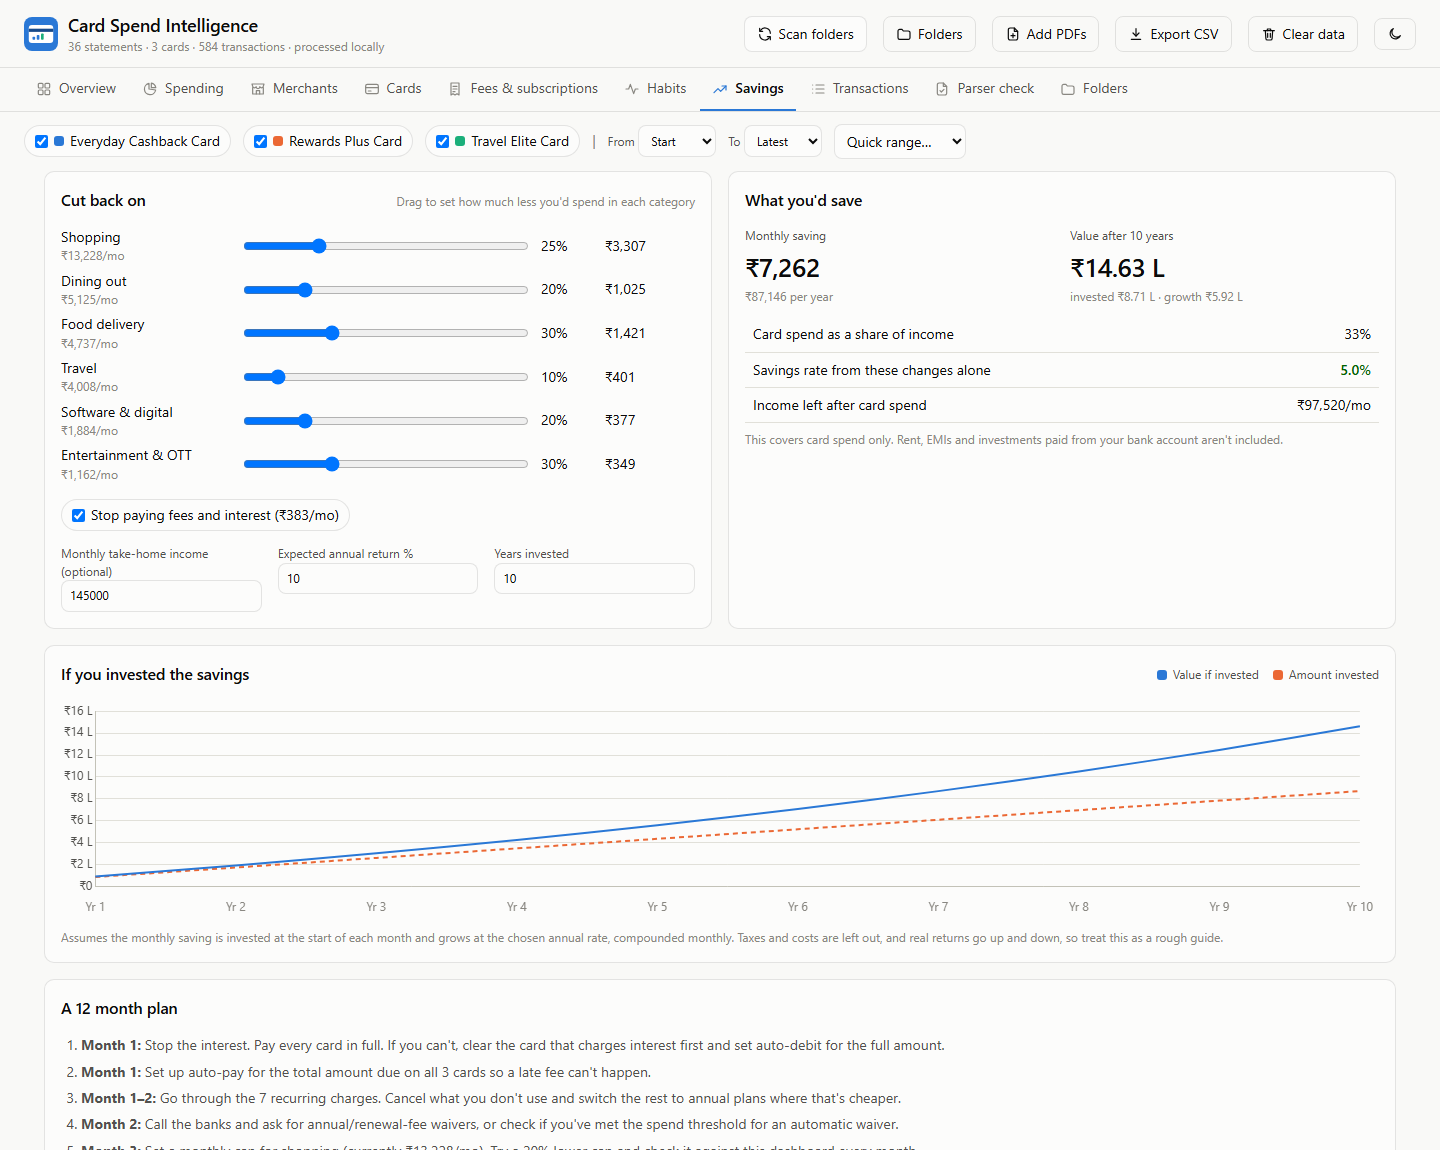
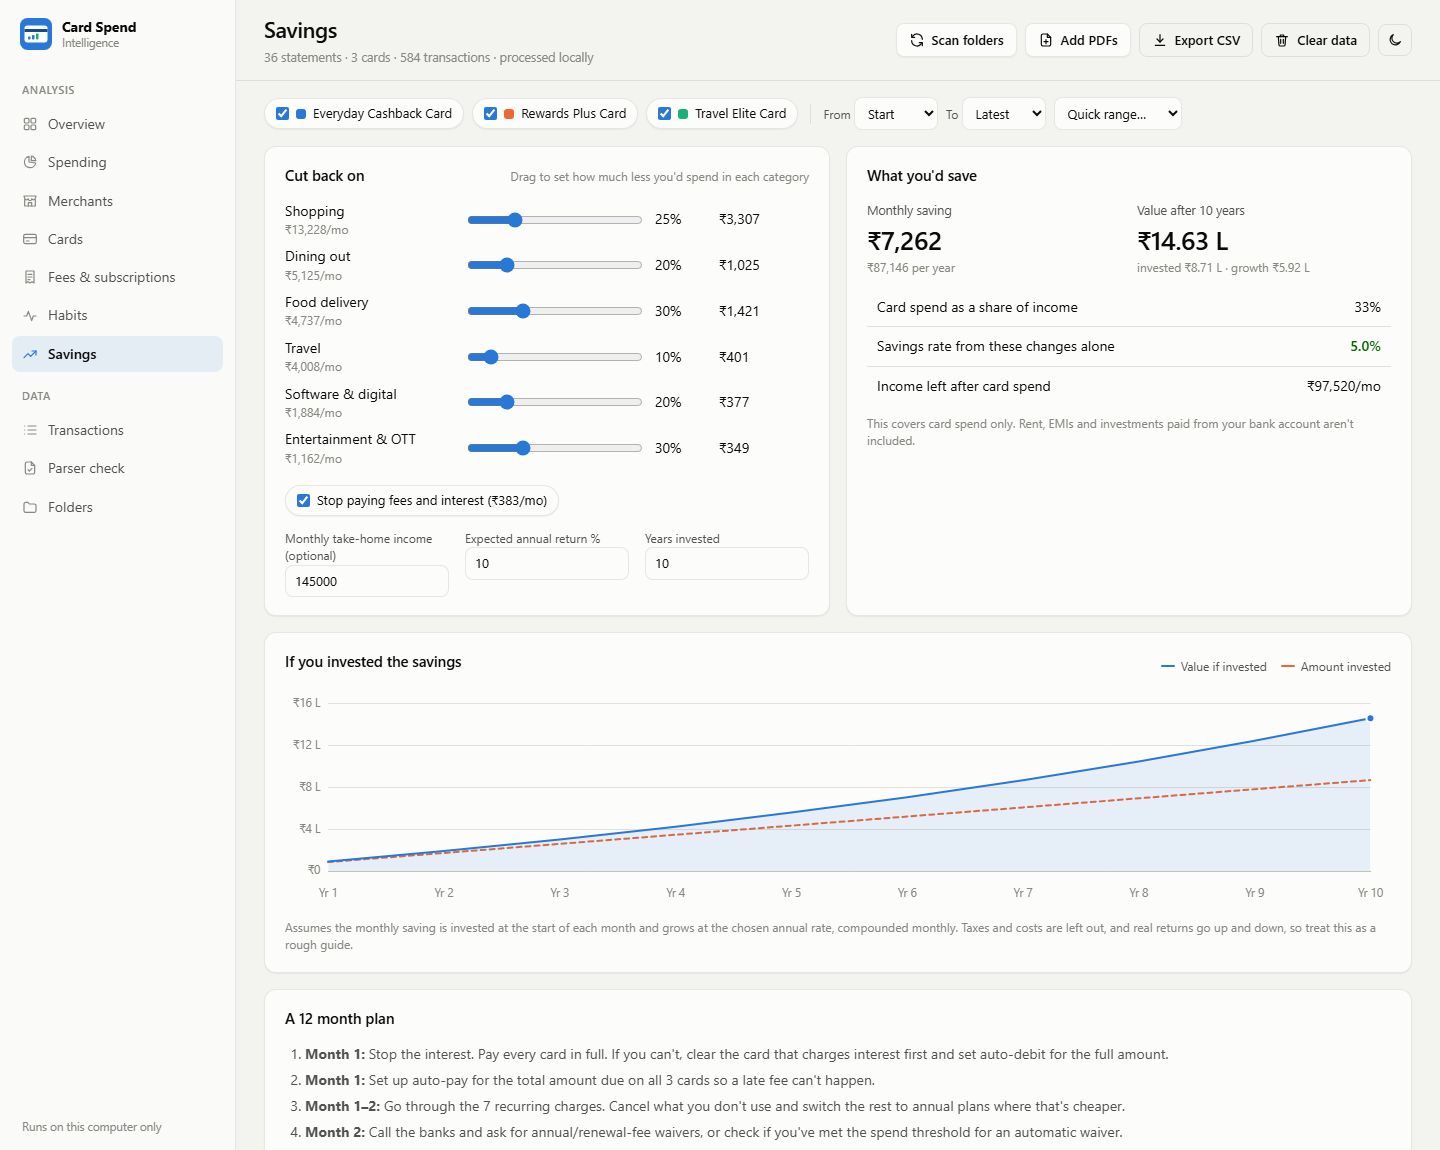
Update README and screenshots for the redesign

diff --git a/README.md b/README.md
@@ -14,7 +14,7 @@ All screenshots use made up demo data.
 
 **Overview.** Total and monthly spend split by card, the categories that eat most of your money, and a short list of findings like late fees, interest, duplicate charges or spending that keeps creeping up.
 
-**Spending.** Every category with its share, average ticket size and how it changed over the period. Also spend by weekday, by day of the month (useful for spotting the post-salary splurge) and by hour, if your bank prints transaction times.
+**Spending.** A calendar of daily spending for the last year, then every category with its share, average ticket size and how it changed over the period. Also spend by weekday, by day of the month (useful for spotting the post-salary splurge) and by hour, if your bank prints transaction times.
 
 ![Spending](docs/screenshots/spending.png)
 
@@ -67,7 +67,7 @@ You need Python 3.8 or newer. There is nothing to install with pip and no build 
      SBI SimplyClick/
    ```
 
-4. Open the **Folders** tab, paste the path to `Statements` and click **Add folder**. On Windows you can right click the folder in File Explorer and choose *Copy as path*. On Linux and macOS a path like `~/Statements` works.
+4. Open **Folders** in the sidebar, paste the path to `Statements` and click **Add folder**. On Windows you can right click the folder in File Explorer and choose *Copy as path*. On Linux and macOS a path like `~/Statements` works.
 5. Click **Import new statements**. You'll be asked for each card's PDF password once. Other files from the same card reuse it for the rest of the session.
 
 ![Folders](docs/screenshots/folders.png)
